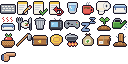
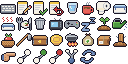
chore: a arte do M25 copiada para o cartucho do escritório; o lote em voo depois de um kill -9 no futuro.md
O commit da arte mudou as folhas em docs/design sem o make arte-escritorio, e o teste da arte do
escritório quebrava: agora o robô publicador e os ícones novos do PR (pr, ci_verde, ci_vermelho,
mesclado, atualizando) estão no cartucho. E fica registrado o bug que derruba o teste do gateway:
o consumidor durável que retoma entrega os eventos novos antes do lote em voo, e o gateway o
descarta como já visto.

Changed region(s): [[0.375, 0.75, 0.75, 1.0], [0.25, 0.75, 0.375, 1.0], [0.125, 0.75, 0.25, 1.0]]

diff --git a/docs/planos/futuro.md b/docs/planos/futuro.md
@@ -47,7 +47,7 @@ A coluna "Destino" foi revista no fechamento da v0.3 (M22) e de novo no plano ma
 | **Irrigadores.** Regam sozinhos os canteiros em volta, ao preço de mudar o layout da fazenda | decisão 19 da v0.3 (21/out) | fazenda 4 |
 | **Documentos do avatar com busca (RAG).** Guardar documentos inteiros que o agente produziu e consultá-los depois, além das crenças e anotações | decisão 10 da v0.3 (21/out) | depois, se o bloco de abertura do dev crescer |
 | **Mais seeds para Sonnet e Opus.** Rodar primeiro uma seed de cada na terceira arena, medir, e só então decidir se vale rodar mais | decisão 12 da v0.3 (21/out) | fazenda 4, com a rodada 3 (ADR-0077) |
-| **O teste A6 da percepção falha às vezes sob carga.** `test_a6_percepcao_cai_e_volta_sem_derrubar_o_kernel` viu uma vez, em 22/out, duas fotos com o mesmo `seq` e ids diferentes depois do `kill -9`, num `make check` que rodava junto com uma busca pesada no disco. Investigado no começo do M16: a gravação do estado é atômica (`fsync` e troca de nome), o `seq` e o último pedido aplicado são gravados juntos, a confirmação vem depois de gravar, e o teste mata o próprio processo Python; não achei caminho para o `seq` repetir, e 12 execuções em três processos paralelos passaram. O teste agora imprime as fotos (`seq`, id, tick, pedido) quando falha | `make check` de 22/out; M16 | se a falha voltar, com a mensagem nova |
+| **Depois de um `kill -9`, o lote em voo volta fora de ordem.** O consumidor durável que retoma recebe primeiro os eventos novos; o lote que o processo morto tinha em mãos, gravado ou não mas sem confirmação, só volta depois do `ack_wait` (30 s) e é aplicado por cima de um estado mais novo. No gateway, uma posição ou uma quantidade velha sobrescreve a nova, e no mundo pausado nada a corrige: o `test_gateway_visoes_comandos_e_a6` falhou duas vezes em três `make check` de 20/nov (o Camps noutro lugar; 3 sementes em vez de 2) e uma em sete sob carga, sozinho. O mesmo vale para os comandos do kernel, o arquivo e a percepção, e deve explicar o A6 da percepção de 22/out (duas fotos com o mesmo `seq`; investigado no começo do M16 sem achar caminho no código). O consumidor de hoje, de lotes menores e mais frequentes (b28dab7), deixa a janela maior. O conserto provável fica no `bus_nats`: ao retomar um durável, recriá-lo a partir do último confirmado, para o que estava em voo voltar na hora e em ordem; pede a permissão de apagar o próprio consumidor e uma ADR (revê a ADR-0017) | `make check` de 22/out e de 20/nov | antes do escritório vivo sob o supervisor (M25, parte 2), que derruba e sobe os processos a cada troca de versão |
 | **Uma camada comum de rótulos.** Os eventos da plataforma (o caderno, as chamadas de modelo, a percepção, as propostas) têm rótulos declarados pelo gênero farm; o escritório repetiria os mesmos. Uma camada de rótulos comum a todos os cartuchos, abaixo do gênero | fechamento do M17 (24/out) | M24: o escritório tem os rótulos dos pedidos e da fala, e os da mente (o caderno, as chamadas de modelo, as propostas) chegam com ela |
 | **O tamanho das rodadas da arena.** Uma corrida de 30 dias grava de 10 a 18 MB de eventos; a fita do modelo pesa mais (113 MB no Opus da rodada do M14), e a rodada inteira, uns 520 MB. Uma limpeza que comprima ou apague as fitas de rodadas antigas, sem tocar em `data/archive/` | nota do usuário na decisão 5 do M17 (23/out) | quando o disco pedir |
 | **O nome dos grupos das métricas.** As moedas por canal aparecem agrupadas pelo motivo cru do evento (`payment`, `fair_payment`, `order_payment`); um rótulo por grupo, declarado pelo cartucho como os rótulos da linha do tempo | fechamento do M18 (24/out) | quando incomodar |
